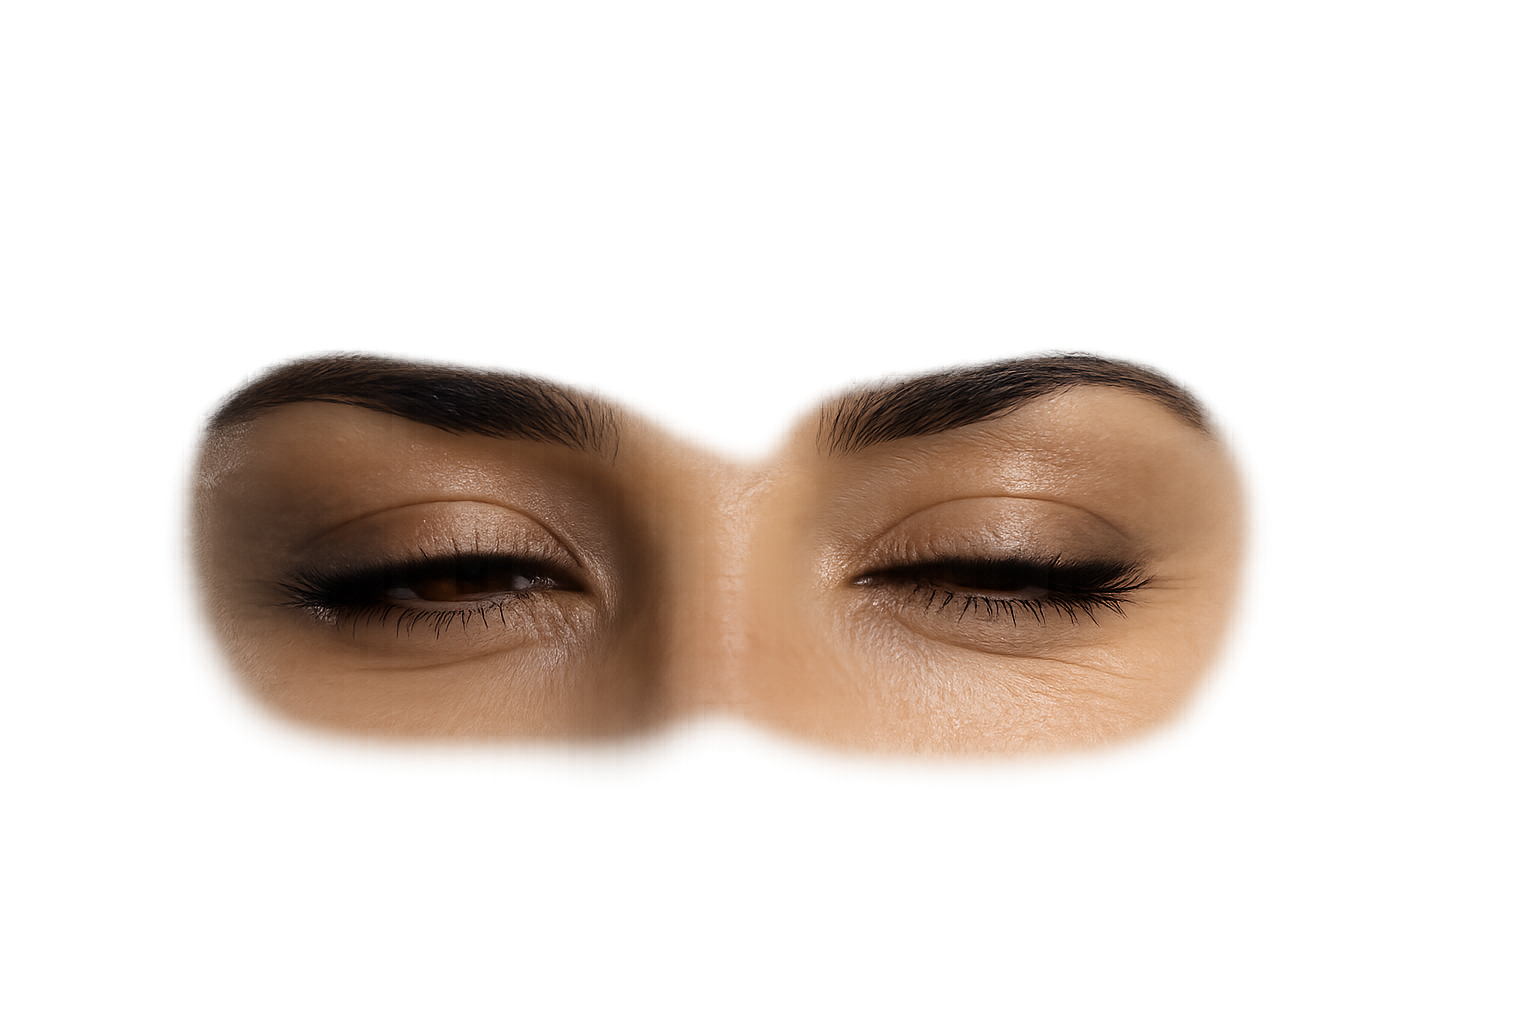
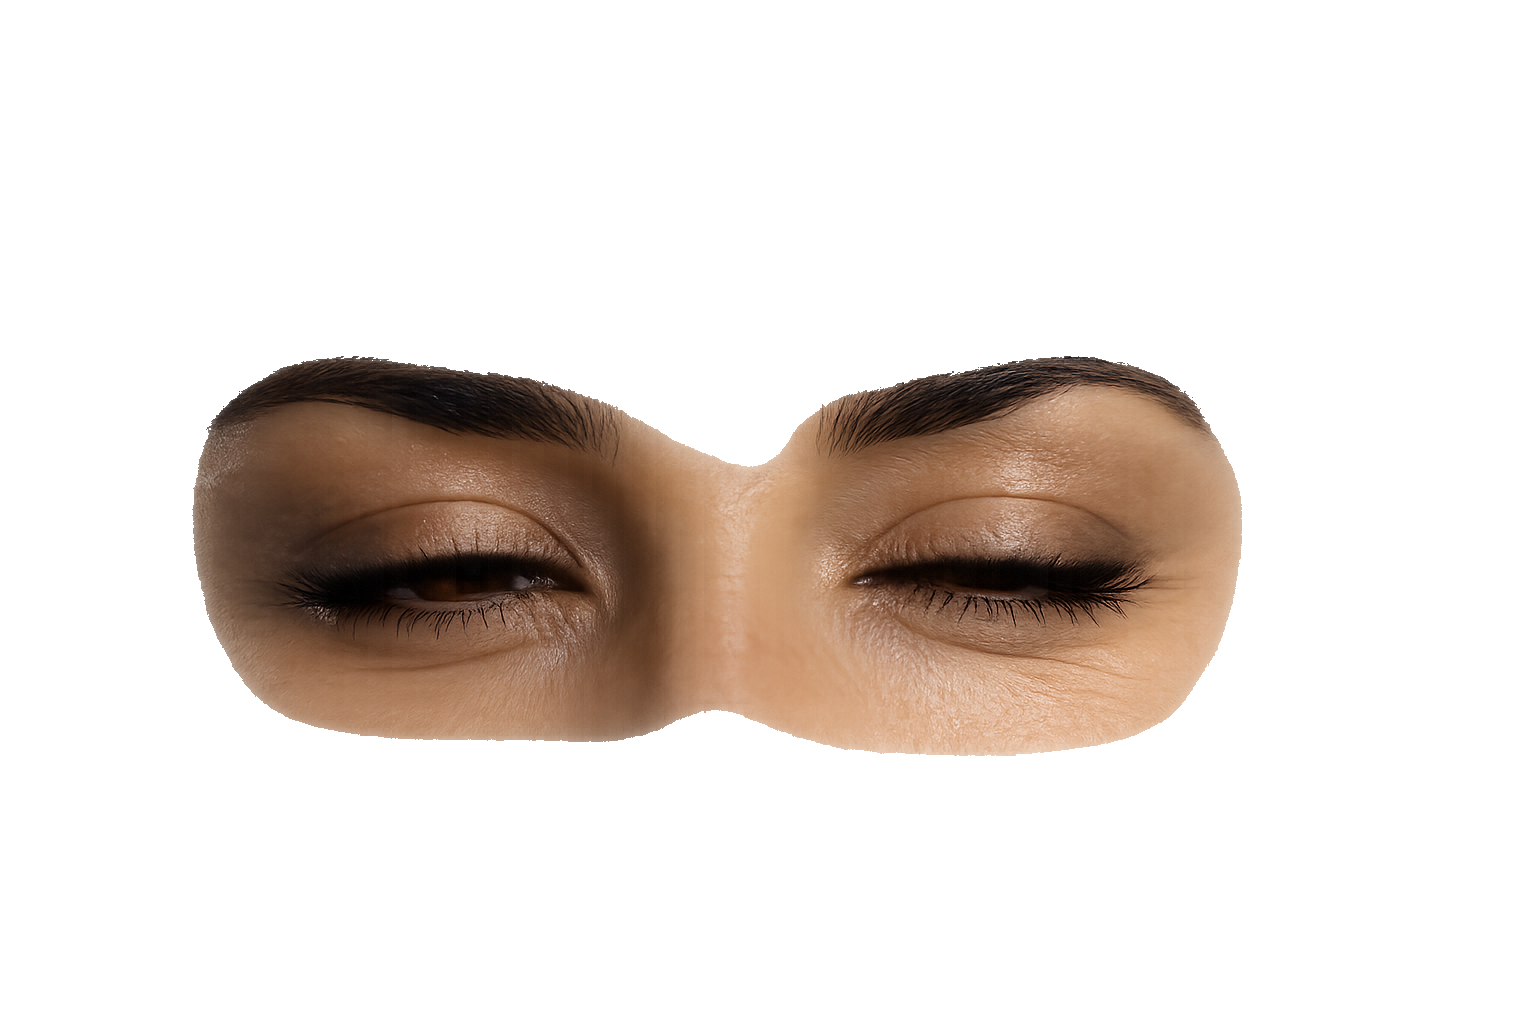
Centrera ögon-overlays + skärpa alpha-mask (#87)
- Alpha-mask: semi-transparenta kantpixlar (alpha < 180) sätts till 0
  så att de inte blandar sig med mörk bakgrund vid mix-blend-mode:darken
- CSS left: 50% → 51.5% kompenserar för att bildinnehållet sitter
  off-center (centrum vid 46.7% av bildbredden istället för 50%)

https://claude.ai/code/session_01BjmJuhYCPzqaUNubpmNWyU

diff --git a/app/kanal/page.js b/app/kanal/page.js
@@ -159,15 +159,15 @@ function TalkingFace({ amplitude, speaking }) {
         }} onError={e => { e.target.style.display = "none"; }} />
       ))}
 
-      {/* Lager 3: blink — mix-blend-mode:darken döljer ljusare hudton, visar bara mörkare pixlar (fransar, skugga) */}
+      {/* Lager 3: blink — skärpt alpha-mask, centrerad på faktiskt ögoninnehåll (46.7% → 51.5% left) */}
       <img
         src={`/avatarer/podd/${slug}-eyes-half.png`} alt=""
-        style={{ position: "absolute", top: "16%", left: "50%", transform: "translateX(-50%)", width: "44%", height: "auto", opacity: blinkState === "half" ? 1 : 0, transition: "opacity 25ms linear", mixBlendMode: "darken" }}
+        style={{ position: "absolute", top: "16%", left: "51.5%", transform: "translateX(-50%)", width: "44%", height: "auto", opacity: blinkState === "half" ? 1 : 0, transition: "opacity 25ms linear", mixBlendMode: "darken" }}
         onError={e => { e.target.style.display = "none"; }}
       />
       <img
         src={`/avatarer/podd/${slug}-eyes-closed.png`} alt=""
-        style={{ position: "absolute", top: "16%", left: "50%", transform: "translateX(-50%)", width: "44%", height: "auto", opacity: blinkState === "closed" ? 1 : 0, transition: "opacity 20ms linear", mixBlendMode: "darken" }}
+        style={{ position: "absolute", top: "16%", left: "51.5%", transform: "translateX(-50%)", width: "44%", height: "auto", opacity: blinkState === "closed" ? 1 : 0, transition: "opacity 20ms linear", mixBlendMode: "darken" }}
         onError={e => { e.target.style.display = "none"; }}
       />
     </div>
